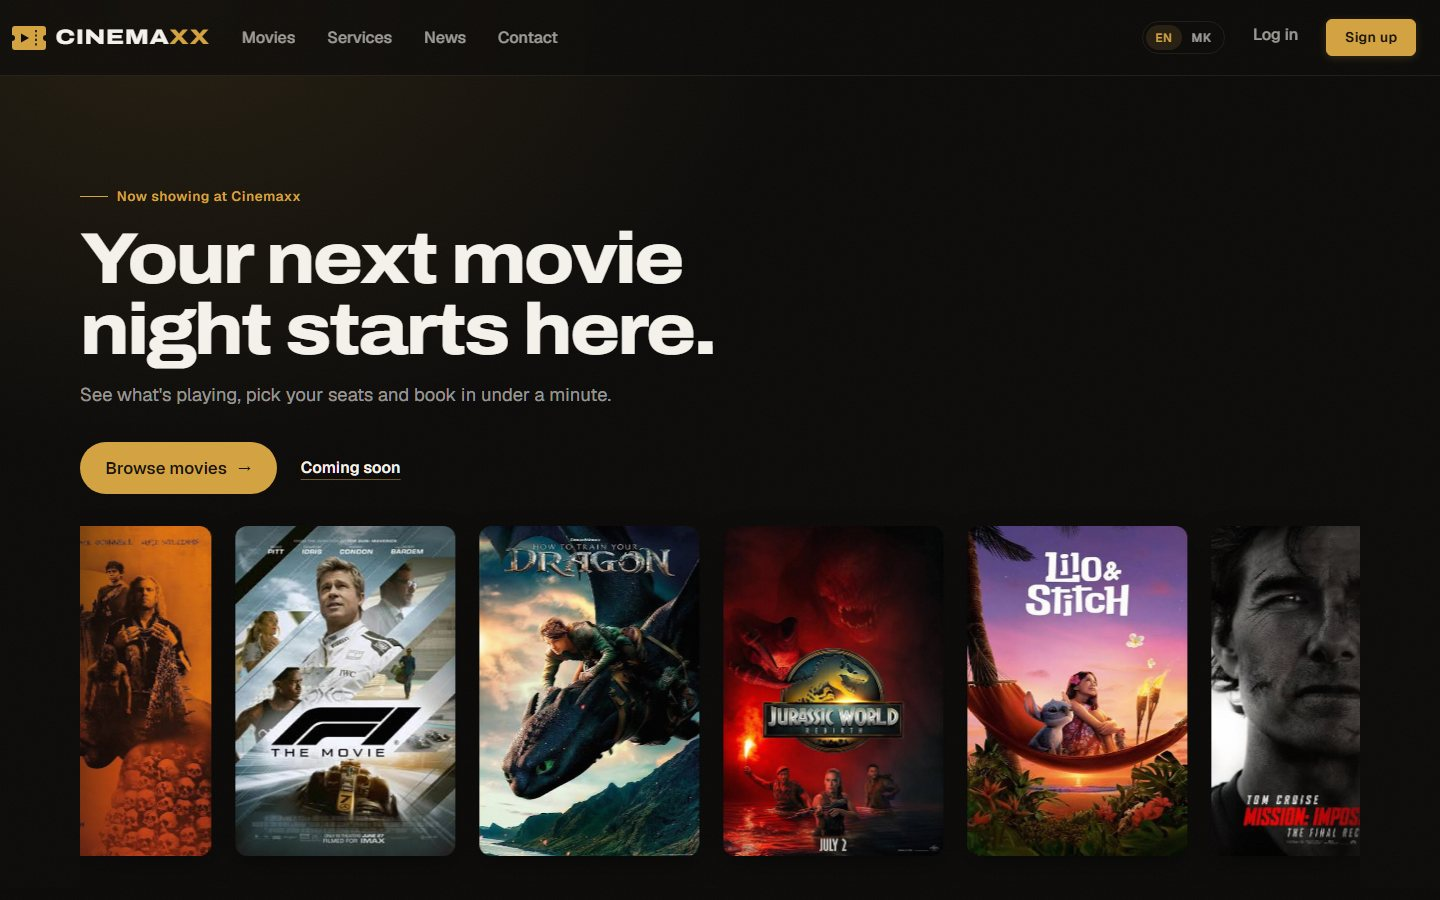
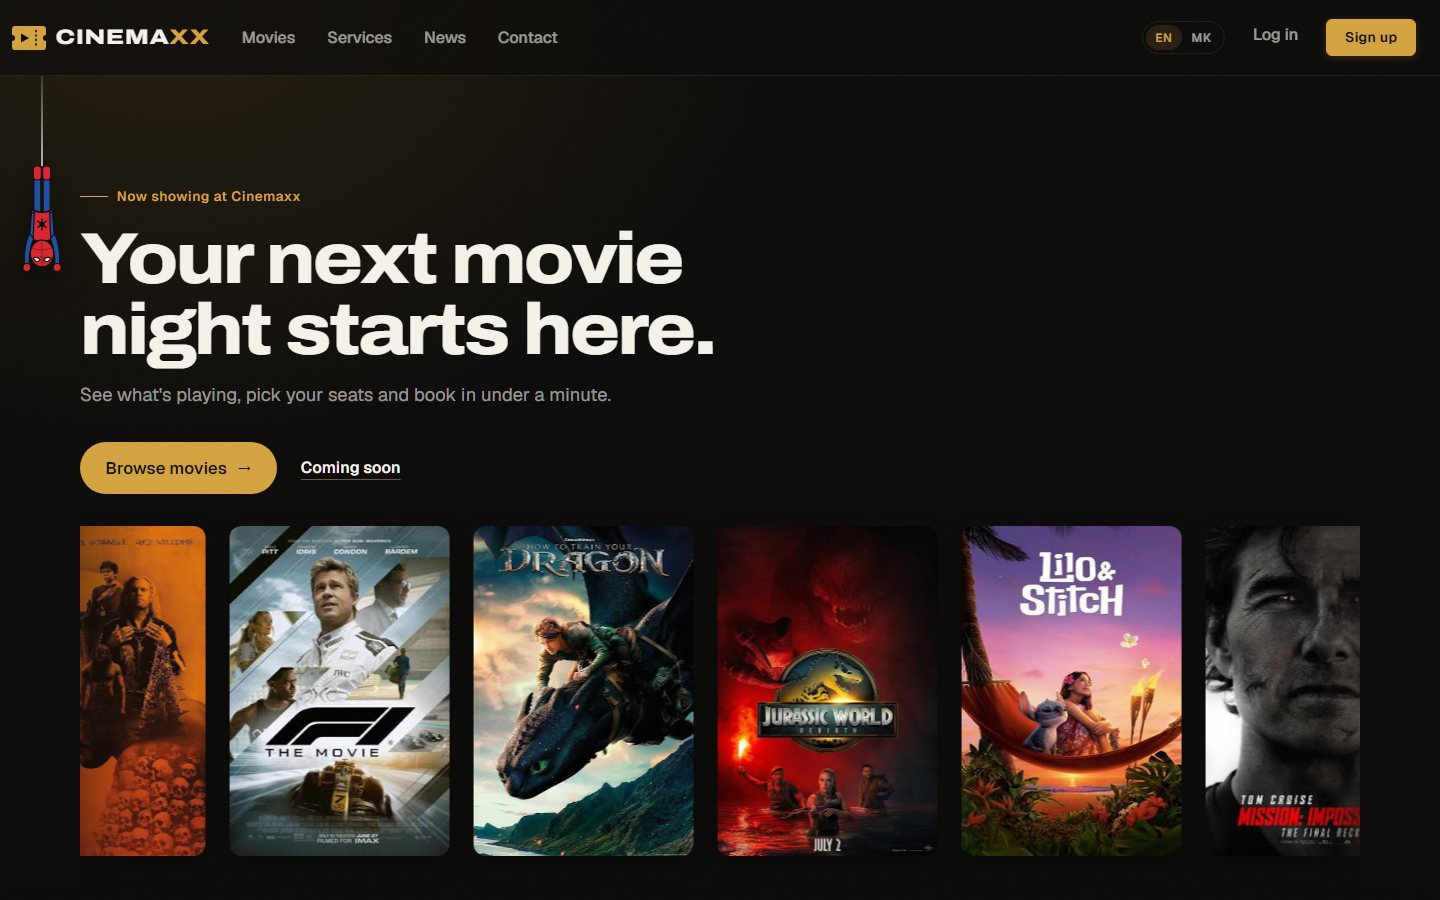
update readme home screenshot with the spider-man effect

Changed region(s): [[0.0312, 0.5911, 0.625, 0.9644], [0.6562, 0.5911, 0.9375, 0.9333], [0.0, 0.1867, 0.0625, 0.3111]]

diff --git a/README.md b/README.md
@@ -2,7 +2,7 @@
 
 A cinema booking website built with ASP.NET Core MVC. Visitors browse what's playing, pick seats on a live seat map and pay to confirm. Admins manage movies, screenings, halls, news and messages. The whole site is available in English and Macedonian.
 
-![Cinemaxx home page](docs/screenshots/home.jpg)
+![Cinemaxx home page with Spider-Man hanging from the navbar](docs/screenshots/home.jpg)
 
 ![Seat selection](docs/screenshots/seats.jpg)
 
@@ -14,6 +14,7 @@ A cinema booking website built with ASP.NET Core MVC. Visitors browse what's pla
 - **Accounts**: register, log in, see and cancel your reservations
 - **Admin area**: dashboard, CRUD for movies, screenings, halls, genres, employees, news and services, plus a contact inbox
 - **English and Macedonian**: switch language from the navbar; your choice is remembered in a cookie
+- **Home page effect**: Spider-Man drops in on a web line from the top-left corner and hangs beside the hero on wide screens
 
 ## Tech stack
 
